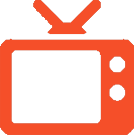
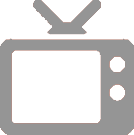
allemaal heftige edits omtrent onze prachtige user interface

diff --git a/public/components/menu/menu.html b/public/components/menu/menu.html
@@ -1,33 +1,33 @@
 <div class="row">
-    <div class="col m2 menu_item">
+    <div class="col m2 menu_item" ng-class="(mc.active == '') ? 'active' : ''" ui-sref="actuatorsOverzicht">
         <div class="row">
             <div class="col m12 text-center">
-                <img src="/images/icon_home.png" width="70%"><br>
-                Home
+                <img src="/images/icon_home{{mc.active=='' ? '_active' : ''}}.png" width="70%"><br>
+                <span>Home</span>
             </div>
         </div>
     </div>
-    <div class="col m2 menu_item active">
+    <div class="col m2 menu_item" ng-class="(mc.active == 'actuators') ? 'active' : ''" ui-sref="actuatorsOverzicht">
         <div class="row">
             <div class="col m12 text-center">
-                <img src="/images/icon_apparaten.png" width="70%"><br>
-                Apparaten
+                <img src="/images/icon_apparaten{{mc.active=='actuators' ? '_active' : ''}}.png" class="grayscale" width="70%"><br>
+                <span>Apparaten</span>
             </div>
         </div>
     </div>
-    <div class="col m2 menu_item">
+    <div class="col m2 menu_item" ng-class="(mc.active == 'sensors') ? 'active' : ''" ui-sref="sensorenOverzicht">
         <div class="row">
             <div class="col m12 text-center">
-                <img src="/images/icon_sensoren.png" width="70%"><br>
-                Sensoren
+                <img src="/images/icon_sensoren{{mc.active=='sensors' ? '_active' : ''}}.png" width="70%"><br>
+                <span>Sensoren</span>
             </div>
         </div>
     </div>
-    <div class="col m2 menu_item">
+    <div class="col m2 menu_item" ng-class="(mc.active == '') ? 'active' : ''" ui-sref="sensorenOverzicht">
         <div class="row">
-            <div class="col m12 text-center">
-                <img src="/images/icon_instellingen.png" width="70%"><br>
-                Instellingen
+            <div class="col m12 text-center" >
+                <img src="/images/icon_instellingen{{mc.active=='' ? '_active' : ''}}.png" width="70%"><br>
+                <span>Instellingen</span>
             </div>
         </div>
     </div>

diff --git a/public/components/actuator/actuator.detail.html b/public/components/actuator/actuator.detail.html
@@ -1,3 +1,41 @@
-<pre>
-{{adc.actuator | json}}
-</pre>
+<div class="row" style="margin-top:15px;">
+    <div class="col m2">
+        <div class="card touch waves-light text-center">
+            <div class="status green"></div>
+            <img src="/images/icon_lamp.png" style="width:40px; margin-top:3px;">
+        </div>
+    </div>
+    <div class="col m10">
+        <div class="row detaildescrip" style="margin-top:8px;">
+            <div class="col m12">
+                {{adc.actuator.model.name}}
+            </div>
+            <div class="col m12">
+                <p class="description">{{adc.actuator.model.description}}</p>
+            </div>
+        </div>
+    </div>
+</div>
+
+<div class="row">
+    <div class="col m4 nopad">
+        <div class="row">
+            <div class="col m12">
+                <div class="command nopad valign-wrapper card" ng-repeat="command in adc.actuator.model.commands" ng-if="command.name != 'status'">
+                    <div ng-click="adc.showCommand(command.parameters)" class="touch valign" style="display: inline-block; width: 85%;">{{command.name}}</div>
+                    <div data-position="top" data-delay="50" data-tooltip="{{command.description}}" class="tooltipped text-center" style="display: inline-block; width:15%; background-color:#F84E19; color:white; font-size:24px;">i</div>
+                </div>
+            </div>
+        </div>
+    </div>
+</div>
+
+<div id="commandModal" class="modal" style="margin-top:-25px;">
+    <div class="modal-content">
+        <h4>Modal Header</h4>
+        <p>A bunch of text</p>
+    </div>
+</div>
+
+
+

diff --git a/public/css/app.css b/public/css/app.css
@@ -30,6 +30,7 @@ body{
     padding-top:50px !important;
 }
 
+
 .ptop_30{
     padding-top:30px !important;
 }
@@ -75,6 +76,10 @@ body{
     border-right: 1px solid RGBA(149, 149, 149, 1);
 }
 
+.menu_item.active span{
+    color:#f54f29;
+}
+
 .customCard{
     border-radius: 3px;
     position: relative;
@@ -97,7 +102,7 @@ body{
     box-shadow:         none;
 }
 
-.customCard.onoff:active{
+.customCard:active{
     background-color: #F4F4F4;
     -moz-box-shadow:    inset 0 0 7px #EAEAEA;
     -webkit-box-shadow: inset 0 0 7px #EAEAEA;
@@ -107,6 +112,20 @@ body{
 .customCard .detailcontainer .description{
     font-size:11px;
     color:RGBA(149, 149, 149, 1);
+}
+
+.card .touch:active{
+    background-color: #F4F4F4;
+    -moz-box-shadow:    inset 0 0 7px #EAEAEA;
+    -webkit-box-shadow: inset 0 0 7px #EAEAEA;
+    box-shadow:         inset 0 0 7px #EAEAEA;
+}
+
+.card.touch:active{
+    background-color: #F4F4F4;
+    -moz-box-shadow:    inset 0 0 7px #EAEAEA;
+    -webkit-box-shadow: inset 0 0 7px #EAEAEA;
+    box-shadow:         inset 0 0 7px #EAEAEA;
 }
 
 .status.off{
@@ -157,4 +176,22 @@ body{
 .logentry{
     height: 41px;
     border-bottom: 1px solid white;
+}
+
+.detaildescrip{
+    color:#959595;
+}
+
+.detaildescrip .description{
+    font-size:12px;
+}
+
+.command{
+    vertical-align: middle;
+    padding:5px;
+}
+
+.command .touch{
+    height: 36px;
+    padding:6px;
 }

diff --git a/public/components/actuator/actuator.detail.controller.js b/public/components/actuator/actuator.detail.controller.js
@@ -5,10 +5,11 @@
         .module('jarvis.actuator')
         .controller('ActuatorDetailCtrl', ActuatorDetailCtrl);
 
-    ActuatorDetailCtrl.$inject = ["DevicesService", "$stateParams", "$scope"];
+    ActuatorDetailCtrl.$inject = ["DevicesService", "$stateParams", "$scope", '$timeout'];
 
-    function ActuatorDetailCtrl(DS, $sp, $scope) {
+    function ActuatorDetailCtrl(DS, $sp, $scope, $timeout) {
         var adc = this;
+        adc.showCommand = showCommand;
 
         DS.getDeviceById($sp.uid,"actuator")
             .then(function(data){
@@ -19,6 +20,16 @@
                 Materialize.toast("Device not found", 4000);
                 console.error(err);
             });
+
+        function showCommand(paramList){
+            if(paramList.length>0)
+            $('#commandModal').openModal();
+        }
+
+
+        $timeout(function(){
+            $('.tooltipped').tooltip({delay: 50});
+        });
     }
 
 })();

diff --git a/public/components/clock/clock.directive.js b/public/components/clock/clock.directive.js
@@ -1,0 +1,30 @@
+(function () {
+    'use strict';
+
+    angular
+        .module('jarvis.clock')
+        .directive('clock', clockDir);
+
+    clockDir.$inject = ['dateFilter', '$timeout'];
+
+    function clockDir(dateFilter, $timeout) {
+        return {
+            restrict: 'E',
+            scope: {
+                format: '@'
+            },
+            link: function (scope, element, attrs) {
+                var updateTime = function () {
+                    var now = Date.now();
+
+                    element.html(dateFilter(now, scope.format));
+                    $timeout(updateTime, now % 1000);
+                };
+
+                updateTime();
+            }
+
+        };
+    }
+
+})();

diff --git a/public/components/actuator/actuator.routes.js b/public/components/actuator/actuator.routes.js
@@ -27,7 +27,7 @@
                     "menuView": {
                         templateUrl: "components/menu/menu.html",
                         controller: "MenuCtrl",
-                        controllerAd: "mc"
+                        controllerAs: "mc"
                     }
                 }
             })
@@ -49,7 +49,7 @@
                     "menuView": {
                         templateUrl: "components/menu/menu.html",
                         controller: "MenuCtrl",
-                        controllerAd: "mc"
+                        controllerAs: "mc"
                     }
                 }
             });

diff --git a/public/components/sensor/sensor.routes.js b/public/components/sensor/sensor.routes.js
@@ -27,7 +27,7 @@
                     "menuView": {
                         templateUrl: "components/menu/menu.html",
                         controller: "MenuCtrl",
-                        controllerAd: "mc"
+                        controllerAs: "mc"
                     }
                 }
             })
@@ -49,7 +49,7 @@
                     "menuView": {
                         templateUrl: "components/menu/menu.html",
                         controller: "MenuCtrl",
-                        controllerAd: "mc"
+                        controllerAs: "mc"
                     }
                 }
             });

diff --git a/public/components/actuator/actuator.overzicht.html b/public/components/actuator/actuator.overzicht.html
@@ -10,7 +10,7 @@
                     <img src="/images/icon_lamp.png" style="width:25px; margin-top:3px;">
                 </div>
             </div>
-            <div class="col m8" style="margin-left:-8px; margin-top:0px;">
+            <div class="col m8" ng-click="aoc.GoToDetail(actuator)" style="margin-left:-8px; margin-top:0px;">
                 <div class="customCard" style="padding:1px;">
                     <div class="detailcontainer">
                         {{actuator.model.name}}<br>

diff --git a/public/index.html b/public/index.html
@@ -18,7 +18,7 @@
                     <img src="images/icon_wifi.png" style="width: 30px; margin-left:-25px; margin-top:13px;">
                 </div>
                 <div class="col m1" style="color:black; margin-left:-30px; margin-top:-4px; font-size:28px;">
-                    11:30
+                    <clock format="HH:mm"></clock>
                 </div>
             </div>
         </nav>

diff --git a/public/components/modules.js b/public/components/modules.js
@@ -3,6 +3,7 @@
 
     angular.module('jarvis', [
         'templatecache',
+        'jarvis.clock',
         'jarvis.title',
         'jarvis.devices',
         'jarvis.log',

diff --git a/public/components/menu/menu.controller.js b/public/components/menu/menu.controller.js
@@ -11,6 +11,8 @@
         var mc = this;
         mc.active = $stateParams.activeMenu;
         console.log(mc.active);
+
+
     }
 
 })();

diff --git a/public/components/clock/clock.module.js b/public/components/clock/clock.module.js
@@ -1,0 +1,7 @@
+(function(){
+    'use strict';
+
+    angular.module('jarvis.clock', [
+    ]);
+
+})();
